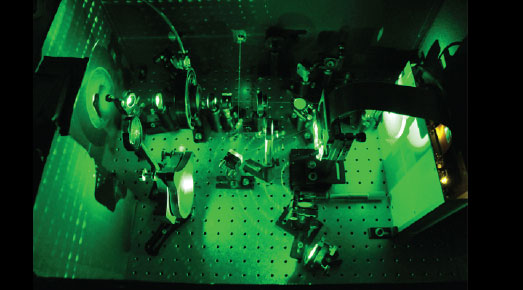
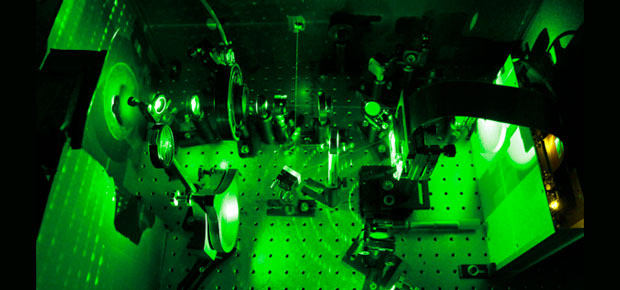
made standalone carousel. modified images. fixed left right buttons

diff --git a/test.html b/test.html
@@ -96,7 +96,7 @@
 						================================================== -->
 						<!-- End of php/header.php -->
 	
-						<section id="content" class="container">
+						<section id="content" class="container"> <!-- This container consists of a giant row of text -->
 							<div>
 								<section class="row">
 									<article class="span12">
@@ -107,7 +107,7 @@
 										<p><a class="" href="research.php">Read more &raquo;</a></p>
 									</article>
 
-								</section>
+								</section> <!--End Row -->
 							</div>
 													<hr />
 						</section><!-- end .container -->
@@ -179,7 +179,7 @@
 													</div>
 												</div>
 												<!-- end Item -->
-											</div> <!-- End span 8-->
+
 										
 										
 											<!-- Item -->
@@ -234,15 +234,22 @@
 
 
 			
-										</div>
+										</div> <!-- end carousel-inner-->
 										<!-- Carousel navigation -->
 											<a class="carousel-control left" href="#carousel" data-slide="prev"></a>
 											<a class="carousel-control right" href="#carousel" data-slide="next"></a>
-										</div>
+									</div>
 									<!-- end Macbook carousel -->
-								</div>
+								</div><!-- End span8-->
 
-							</div>
+							</div> <!-- end row -->
+							
+							
+							
+						</div>  <!-- End container -->
+
+
+
 
 
 
@@ -266,7 +273,7 @@
 											<!-- icon -->
 											<i class="icon-link"></i>
 											<!-- name -->
-											<b class="project-name">The Leifer Lab</b> will be joining<!--is a new member of--> the <a href="http://www.princeton.edu/neuroscience/" target="_blank">Princeton Neuroscience Institute</a>.
+											<b class="project-name">The Leifer Lab</b> is now part of the <a href="http://www.princeton.edu/neuroscience/" target="_blank">Princeton Neuroscience Institute</a>.
 										</div>
 										<!-- ribbon -->
 										<div class="ribbon"><span>New</span></div>
